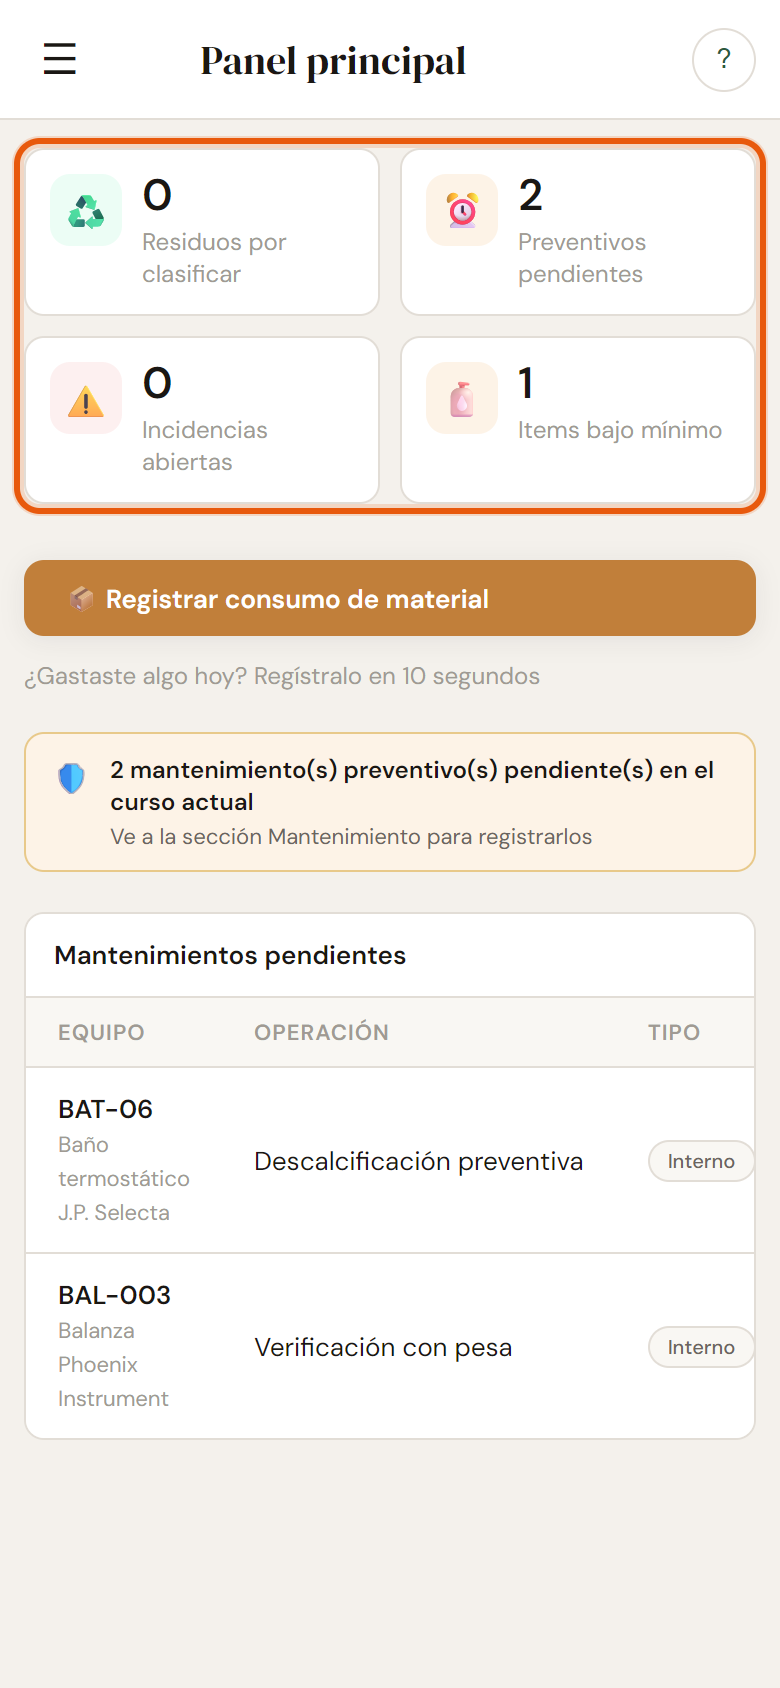
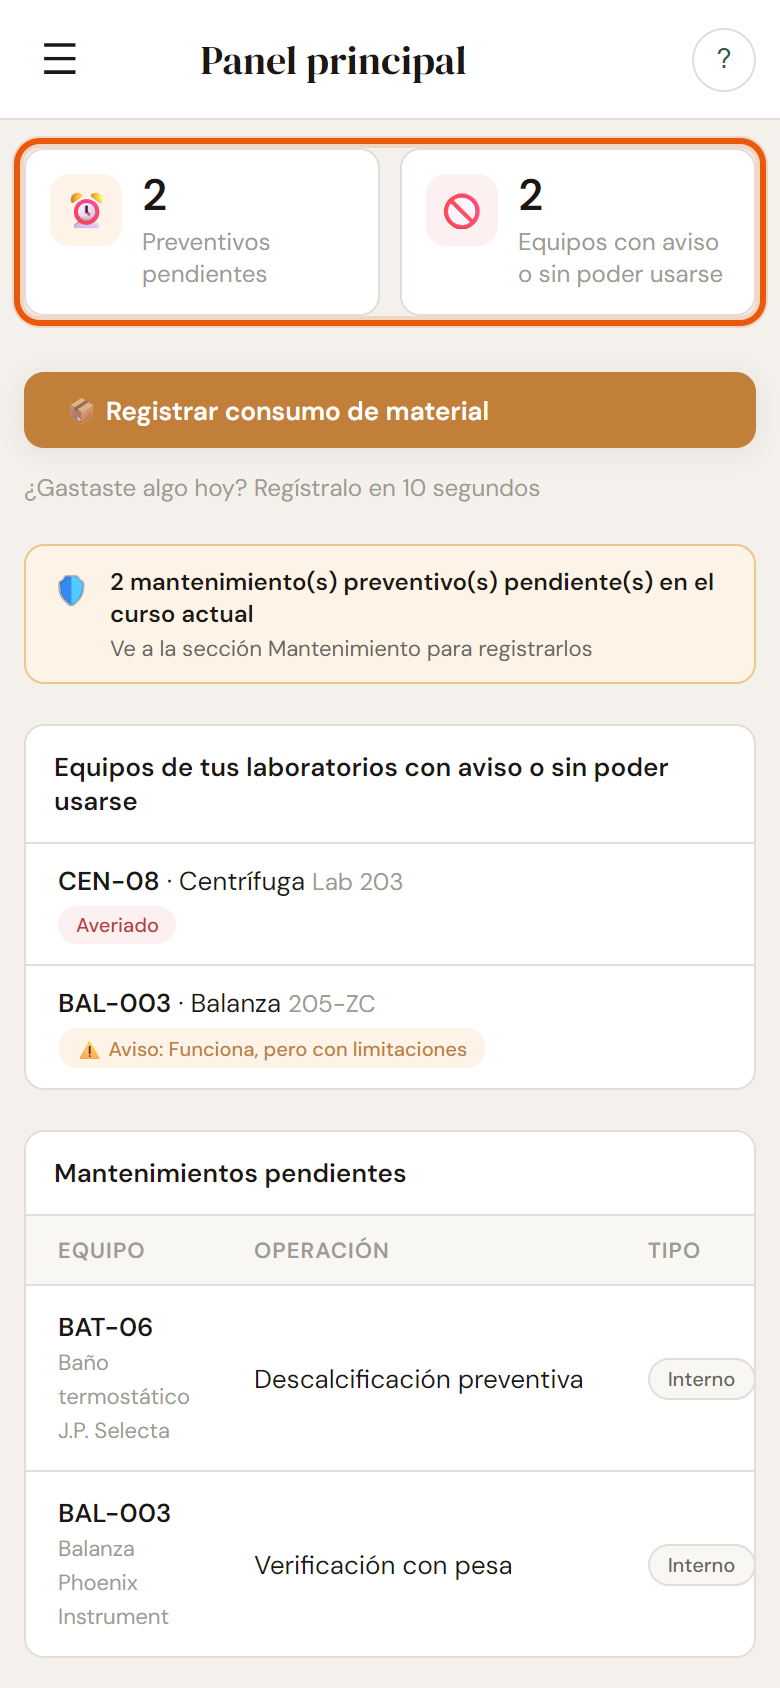
Ayuda: EMP-2 «La app te pide volver a entrar (sesión caducada)» y guiones actualizados
- EMP-2 (común, en los cuatro manuales, «Si algo falla»): pasos y 2 capturas de la
  sesión caducada tal como funciona ahora (entrada con aviso, la ventana reaparece).
- Título nuevo de EMP-2 en los enlaces de MAN-2 y EMP-1; punto de la sesión caducada de MAN-2.
- EMP-1: paso 3 con el panel nuevo del grupo y textos del guion actualizado; capturas rehechas.
- EMP-6: punto de la cabina del guion actualizado; capturas rehechas con los datos nuevos.

diff --git a/js/ayuda.js b/js/ayuda.js
@@ -24,12 +24,13 @@ const AYUDA_MANUALES = {
     secciones: [
       { titulo: 'Al llegar', tareas: ['EMP-1', 'EMP-6'] },
       { titulo: 'Cuando toca mantenimiento', tareas: ['MAN-2'] },
+      { titulo: 'Si algo falla', tareas: ['EMP-2'] },
     ],
   },
-  // EMP-6 es común a todos los roles (misma versión en todos los manuales).
-  Profesor: { titulo: 'Manual del profesorado', intro: '', secciones: [{ titulo: 'Al llegar', tareas: ['EMP-6'] }] },
-  Gestor: { titulo: 'Manual de gestión', intro: '', secciones: [{ titulo: 'Al llegar', tareas: ['EMP-6'] }] },
-  Administrador: { titulo: 'Manual de administración', intro: '', secciones: [{ titulo: 'Al llegar', tareas: ['EMP-6'] }] },
+  // EMP-6 y EMP-2 son comunes a todos los roles (misma versión en todos los manuales).
+  Profesor: { titulo: 'Manual del profesorado', intro: '', secciones: [{ titulo: 'Al llegar', tareas: ['EMP-6'] }, { titulo: 'Si algo falla', tareas: ['EMP-2'] }] },
+  Gestor: { titulo: 'Manual de gestión', intro: '', secciones: [{ titulo: 'Al llegar', tareas: ['EMP-6'] }, { titulo: 'Si algo falla', tareas: ['EMP-2'] }] },
+  Administrador: { titulo: 'Manual de administración', intro: '', secciones: [{ titulo: 'Al llegar', tareas: ['EMP-6'] }, { titulo: 'Si algo falla', tareas: ['EMP-2'] }] },
 };
 
 const AYUDA_ORDEN_MANUALES = ['Alumno', 'Profesor', 'Gestor', 'Administrador'];
@@ -133,13 +134,13 @@ const AYUDA_TAREAS = {
           ['Estaba empezado', '«Continuar n/m» y seguir desde donde se dejó.'],
           ['Se ha marcado un paso por error', 'desmarcarlo antes de finalizar. Si ya está finalizado, decírselo al profesorado, que puede devolverlo para corregirlo.'],
           ['Un paso no se puede hacer (falta material, el equipo no tiene esa pieza)', 'no marcarlo, explicarlo en Observaciones y avisar al profesorado. Si falta material, guardar el progreso y terminar otro día.'],
-          ['Al guardar sale «Tu sesión ha caducado»', 'volver a entrar ([[EMP-2|La app no guarda lo que apuntas (sesión caducada)]]) y comprobar qué quedó guardado.'],
+          ['Al guardar sale «Tu sesión ha caducado»', 'volver a entrar con la misma cuenta del grupo. La ventana reaparece con lo marcado: pulsar otra vez el botón (→ [[EMP-2|La app te pide volver a entrar (sesión caducada)]]).'],
           ['En el móvil, «Registrar» queda fuera de la pantalla en «Pendientes»', 'desplazar la tabla hacia la izquierda, o entrar por la tarjeta del equipo.'],
         ],
         relacionado: [
           ['Antes', [['EQU-1', 'Encontrar un equipo'], ['MAN-1', 'Ver qué mantenimientos tocan'], ['EQU-2', 'Consultar cómo se usa un equipo']]],
           ['Después', [['INC-1', 'Avisar de una avería']]],
-          ['Si falla la app', [['EMP-2', 'La app no guarda lo que apuntas (sesión caducada)']]],
+          ['Si falla la app', [['EMP-2', 'La app te pide volver a entrar (sesión caducada)']]],
         ],
       },
     },
@@ -176,9 +177,9 @@ const AYUDA_TAREAS = {
             alt: 'Pantalla de entrada con el email y la contraseña escritos y el botón Iniciar sesión señalado',
           },
           {
-            texto: '**Qué se ve al entrar.** Arriba del «Panel principal», cuatro cifras: «Preventivos pendientes» son los mantenimientos que tu grupo puede hacer ahora (los de los equipos de vuestros laboratorios y de la zona común); «Incidencias abiertas», «Items bajo mínimo» y «Residuos por clasificar» son de todo el centro. Debajo salen los avisos, por ejemplo los mantenimientos que tocan, y el botón «Registrar consumo de material».',
+            texto: '**Qué se ve al entrar.** El «Panel principal» del grupo enseña lo que le atañe: sus mantenimientos pendientes y los equipos de sus laboratorios y de la zona común que no se pueden usar o tienen un aviso de avería abierto. Arriba, dos cifras: «Preventivos pendientes» (los mantenimientos que tu grupo puede hacer ahora) y «Equipos con aviso o sin poder usarse». Debajo, el botón «Registrar consumo de material», la lista de esos equipos (al pulsar uno se abre su tarjeta en el Inventario) y la de mantenimientos pendientes.',
             img: 'EMP-1/02-panel-principal.png',
-            alt: 'Panel principal de una cuenta de grupo con las cuatro cifras señaladas y la lista de mantenimientos pendientes',
+            alt: 'Panel principal de una cuenta de grupo con sus dos cifras señaladas, la lista de equipos con aviso o sin poder usarse y la de mantenimientos pendientes',
           },
           {
             texto: '**Las secciones del grupo están en el menú** (en el móvil, se abre con «☰», arriba a la izquierda): «Panel principal»; «Equipos» (Inventario y Mantenimiento); «Material fungible» (Inventario); «Uso del laboratorio» (Reservas, Registros de uso y Muestras congeladas); «Residuos» (Guía de residuos y Contenedores); «Catálogo» (Ubicaciones); y «Mi cuenta» («Mi perfil» y «Ayuda»).',
@@ -187,7 +188,7 @@ const AYUDA_TAREAS = {
           },
           {
             texto: '**Comprobar con qué cuenta se ha entrado** antes de registrar nada: al pie del menú salen el nombre del grupo y «Alumno» (también en «Mi cuenta › Mi perfil»). En un ordenador compartido puede seguir abierta la sesión del grupo anterior, y todo lo que se registre saldría a su nombre.',
-            nota: 'En el móvil, el pie del menú queda debajo de «Ayuda»: hay que bajar dentro del menú para verlo.',
+            nota: 'En el móvil, el pie del menú queda debajo de «Ayuda»: hay que bajar hasta el final del menú.',
             imgs: [
               { img: 'EMP-1/04-pie-del-menu.png', alt: 'Pie del menú con el nombre del grupo, el rol Alumno y el botón de cerrar sesión', pie: 'Pie del menú: nombre del grupo, «Alumno» y «↩» para cerrar la sesión.' },
               { img: 'EMP-1/05-mi-perfil.png', alt: 'Mi perfil con el nombre del grupo, su email y el rol Alumno', pie: '«Mi perfil»: los datos de la cuenta con la que se ha entrado.' },
@@ -210,14 +211,14 @@ const AYUDA_TAREAS = {
               '**Residuos**: [[RES-1|consultar la Guía de residuos]] y [[RES-2|apuntar lo que se echa en cada contenedor]].',
               '**Mantenimiento**: [[MAN-2|hacer los mantenimientos internos]] que no están reservados al profesorado, de los equipos de vuestros laboratorios y de la zona común.',
               '**Averías**: [[INC-1|avisar de que un equipo falla]].',
-              '**Inventario**, cuando lo pide el profesorado: [[INV-1|ubicar equipos]], [[INV-2|contar el stock de un sitio]] (si el grupo tiene permiso, y solo en vuestros laboratorios y la zona común) e [[INV-3|inventariar material que no está en la app]].',
+              '**Inventario**, cuando lo pide el profesorado: [[INV-1|ubicar equipos]], [[INV-2|contar el stock de un sitio]] de vuestros laboratorios o de la zona común (si el grupo tiene permiso) e [[INV-3|inventariar material que no está en la app]].',
             ],
           },
           {
             titulo: 'Qué necesita el visto bueno del profesorado',
             items: [
               'Los mantenimientos que finaliza el grupo.',
-              'En el inventario: las ubicaciones de equipos que propone el grupo (salvo que otro grupo haya propuesto exactamente lo mismo para ese equipo: entonces se aplica sin esperar), los recuentos de stock y el material nuevo inventariado.',
+              'En el inventario: las ubicaciones de equipos que propone el grupo (salvo que otro grupo haya propuesto exactamente la misma: entonces se aplica sin esperar), los recuentos de stock y el material nuevo inventariado.',
               'Las reservas, solo si coinciden con otra: entonces las decide Gestión.',
             ],
             nota: 'Hasta que llega el visto bueno, lo registrado no cuenta como hecho, pero tampoco hay que repetirlo.',
@@ -226,7 +227,7 @@ const AYUDA_TAREAS = {
             titulo: 'Lo que no hace el grupo (y a quién pedirlo)',
             items: [
               'Guardar muestras nuevas en el congelador, descartar tubos o cajas, cerrar un contenedor lleno, pedir material o compras: al profesorado.',
-              'Apuntar en un contenedor un residuo que la comprobación de la app no admite, o cuando la app no puede comprobarlo: no se apunta; llamar al profesorado.',
+              'Apuntar en un contenedor un residuo que la app no admite. Si la app dice que no va ahí, no se tira: preguntar al profesorado.',
               'Si se ha olvidado o ha cambiado la contraseña del grupo: la da el profesorado. No hay botón «He olvidado la contraseña».',
             ],
           },
@@ -246,12 +247,12 @@ const AYUDA_TAREAS = {
           ['«Email o contraseña incorrectos»', 'revisar mayúsculas y espacios. Si sigue, pedir la contraseña al profesorado (puede haber cambiado al empezar el curso).'],
           ['«🔒 Acceso no autorizado»', 'la cuenta no está dada de alta en GestionLab. Avisar al profesorado.'],
           ['Al pie del menú sale otro grupo', 'cerrar la sesión y entrar con la vuestra.'],
-          ['La app vuelve sola a la pantalla de entrada, o sale «Tu sesión ha caducado»', 'volver a entrar (→ [[EMP-2|La app no guarda lo que apuntas (sesión caducada)]]).'],
+          ['La app vuelve sola a la pantalla de entrada, o sale «Tu sesión ha caducado»', 'volver a entrar con la misma cuenta (→ [[EMP-2|La app te pide volver a entrar (sesión caducada)]]).'],
           ['No aparece una sección que esperabais', 'el grupo no la tiene; mirar «Qué puede hacer tu grupo» y «Lo que no hace el grupo».'],
         ],
         relacionado: [
           ['Después', [['EMP-6', 'Usar GestionLab en el móvil'], ['EQU-1', 'Encontrar un equipo']]],
-          ['Si falla la app', [['EMP-2', 'La app no guarda lo que apuntas (sesión caducada)']]],
+          ['Si falla la app', [['EMP-2', 'La app te pide volver a entrar (sesión caducada)']]],
         ],
       },
     },
@@ -262,7 +263,59 @@ const AYUDA_TAREAS = {
     pantallas: ['registros-uso', 'congelados', 'material', 'residuos-contenedores', 'perfil'],
     versiones: {},   // la misma versión en los cuatro manuales: se rellena justo debajo
   },
+
+  // ── EMP-2 · común a todos los roles (guion «EMP-2_sesion-caducada.md», 23/11/2026) ──
+  'EMP-2': {
+    pantallas: ['dashboard', 'perfil'],
+    versiones: {},   // la misma versión en los cuatro manuales: se rellena justo debajo
+  },
 };
+
+(() => {
+  const emp2 = {
+    titulo: 'La app te pide volver a entrar (sesión caducada)',
+    quien: ['Cualquier cuenta.'],
+    cuando: [
+      'Al abrir la app sale la pantalla de entrada, aunque en ese dispositivo ya se había entrado.',
+      'Al pulsar «Guardar» (o «Finalizar», «Registrar»…) sale «Tu sesión ha caducado. Vuelve a entrar para guardar cambios.» y se abre la pantalla de entrada.',
+      'La app vuelve sola a la pantalla de entrada mientras estaba abierta.',
+      'En los tres casos, la sesión de ese dispositivo ha dejado de valer. Sin sesión, la app no enseña datos ni guarda nada.',
+    ],
+    antes: [
+      'El email y la contraseña de la cuenta con la que se estaba trabajando. Con la cuenta de un grupo, los del grupo.',
+    ],
+    pasos: [
+      {
+        texto: '**No cerrar la app ni recargar la página.** Lo que estaba a medio rellenar solo está en esa pantalla: si se cierra o se recarga, se pierde.',
+      },
+      {
+        texto: '**Entrar con la misma cuenta** con la que se estaba trabajando: email, contraseña e «Iniciar sesión». Si había una ventana a medio rellenar, la pantalla de entrada lo recuerda: «Vuelve a entrar con la misma cuenta: lo que estabas rellenando sigue ahí y podrás guardarlo». Si no, pone solo «Tu sesión ha caducado. Vuelve a entrar.»',
+        img: 'EMP-2/01-entrada-sesion-caducada.png',
+        alt: 'Pantalla de entrada con el aviso de sesión caducada señalado y el mensaje Tu sesión ha caducado abajo',
+      },
+      {
+        texto: '**Revisar que está todo y pulsar otra vez el botón** («Guardar», «Finalizar», «Registrar»…). Reaparece la ventana con todo lo rellenado y el aviso «Ya has vuelto a entrar: pulsa otra vez el botón para guardar». Hasta ese momento, no se ha guardado nada.',
+        nota: 'En el móvil, ese aviso tapa unos segundos los botones de abajo de la ventana: esperar a que desaparezca.',
+        img: 'EMP-2/02-ventana-reaparece.png',
+        alt: 'La ventana del mantenimiento vuelve a aparecer con las observaciones escritas y el aviso Ya has vuelto a entrar',
+      },
+      {
+        texto: '**Si se entra con otra cuenta, lo rellenado se pierde**: la app lo avisa («Has entrado con otra cuenta: lo que estaba sin guardar se ha descartado»). En un dispositivo del laboratorio, entrar con la cuenta del grupo que estaba trabajando, no con otra.',
+      },
+    ],
+    comprobacion: [
+      'Tras pulsar otra vez el botón, sale el mensaje de confirmación de siempre y lo registrado aparece donde tiene que estar. Por ejemplo, un mantenimiento finalizado por un grupo sale «⏳ Espera visto bueno» en la tarjeta del equipo.',
+    ],
+    problemas: [
+      ['No se sabe la contraseña', 'la del grupo la da el profesorado; la personal, la restablece Gestión.'],
+      ['Lo rellenado no reaparece', 'volver a rellenarlo. En registros largos, como un mantenimiento, conviene «💾 Guardar progreso» de vez en cuando: así, si la sesión cae, se pierde poco.'],
+    ],
+    relacionado: [
+      ['Antes', [['EMP-1', 'Entrar en GestionLab']]],
+    ],
+  };
+  AYUDA_ORDEN_MANUALES.forEach(r => { AYUDA_TAREAS['EMP-2'].versiones[r] = emp2; });
+})();
 
 (() => {
   const emp6 = {
@@ -325,7 +378,7 @@ const AYUDA_TAREAS = {
     problemas: [
       ['Al acercar el móvil no pasa nada', 'el NFC está desactivado, el móvil no tiene NFC o la antena está en otra zona del móvil (probar moviéndolo despacio por la parte de atrás). Si no hay manera, leer el QR con la cámara.'],
       ['Se abre la pantalla de entrada', 'no había sesión. Entrar; la app hace después lo que pedía la etiqueta.'],
-      ['Cabina o vitrina con la cuenta del grupo', 'la app distingue por cuenta, no por persona. Si otra persona del grupo lee la etiqueta mientras el grupo tiene una sesión abierta en ese equipo, se abre el formulario para **terminar** esa sesión (si no se quería, «Cancelar»). Que en cada grupo empiece y termine la sesión la misma persona. Si se ha empezado por error, «Deshacer» durante unos segundos.'],
+      ['Cabina o vitrina con la cuenta del grupo', 'la app distingue por cuenta, no por persona. Si otra persona del grupo lee la etiqueta mientras el grupo tiene una sesión abierta en ese equipo, se abre el formulario para terminarla. Si no era para terminar, «Cancelar». Que en cada grupo empiece y termine la sesión la misma persona, que es quien sabe lo que se ha hecho en la cabina. Si se ha empezado por error, «Deshacer» durante unos segundos.'],
       ['«No se encontró un contenedor activo…»', 'el contenedor de esa categoría se ha cerrado y no se ha puesto el de recambio. Avisar al profesorado.'],
       ['En el laboratorio 203, la etiqueta de aguas pide elegir la garrafa', 'hay dos (tinciones y equipos); elegir a mano la que corresponde y avisar al profesorado de que esa etiqueta hay que regrabarla.'],
       ['«Esa caja ya no existe en la app»', 'avisar al profesorado.'],

diff --git a/tools/capturas-ayuda/EMP-2.js b/tools/capturas-ayuda/EMP-2.js
@@ -1,0 +1,47 @@
+// Capturas de EMP-2 «La app te pide volver a entrar (sesión caducada)» (común a todos los roles).
+// `node tools/capturas-ayuda/capturar.js EMP-2` — ver README.md.
+// La app se abre sin sesión con datos de ejemplo: al pulsar «Guardar progreso» se ve de verdad
+// lo que pasa cuando la sesión ha caducado. La vuelta a entrar se simula con showApp(), que es
+// lo último que hace la app tras un inicio de sesión correcto.
+async (page, { app: APP, salida: SALIDA }) => {
+  const fs = require('fs'), path = require('path');
+  const pausa = ms => page.waitForTimeout(ms);
+  await eval(fs.readFileSync(path.join(__dirname, '_demo-alumno.js'), 'utf8'))(page, APP);
+
+  // Un mantenimiento a medio rellenar
+  await page.evaluate(() => {
+    const p = getPeriodosEsperados(DATA.planesMantenimiento[0], DATA.equipos.find(e => e.ID_Activo === 'BAT-06'), getCursoAcademico())[0];
+    openModalRegistrarMant('PEJ1', 'BAT-06', p, getCursoAcademico());
+    const cb = document.querySelector('#mant-checklist [data-idx="1"] input'); if (cb) { cb.checked = true; _mantPasoHecho(1, true); }
+    document.getElementById('mant-observaciones').value = 'Termómetro de referencia: TER-02. Agua de red.';
+  });
+  // 1 · Se pulsa «💾 Guardar progreso» con la sesión caducada → pantalla de entrada con el aviso
+  await page.evaluate(() => guardarProgresoMant());
+  await pausa(700);
+  await page.evaluate(() => {
+    document.getElementById('auth-aviso-sesion')?.classList.add('ayuda-senal');
+    document.getElementById('login-email').value = 'ejemplo@gestionlab.cma';
+    document.getElementById('login-password').value = 'contraseña';
+  });
+  await pausa(200);
+  await page.screenshot({ path: SALIDA + '01-entrada-sesion-caducada.png' });
+
+  // 2 · Vuelta a entrar con la misma cuenta → reaparece la ventana con lo rellenado
+  await page.evaluate(() => {
+    document.querySelectorAll('.toast, #toast').forEach(t => { t.style.display = 'none'; });
+    document.querySelectorAll('.ayuda-senal').forEach(e => e.classList.remove('ayuda-senal'));
+    showApp();
+  });
+  await pausa(400);
+  await page.evaluate(() => {
+    const t = [...document.querySelectorAll('.toast, #toast')].filter(x => /Ya has vuelto/.test(x.textContent));
+    t.forEach(x => { x.style.display = ''; });
+    // El aviso queda abajo, sobre los botones, unos segundos: se señala lo que se conserva.
+    const obs = document.getElementById('mant-observaciones');
+    obs?.classList.add('ayuda-senal');
+    obs?.scrollIntoView({ block: 'center' });
+  });
+  await pausa(300);
+  await page.screenshot({ path: SALIDA + '02-ventana-reaparece.png' });
+  return 'ok';
+}

diff --git a/tools/capturas-ayuda/_demo-alumno.js b/tools/capturas-ayuda/_demo-alumno.js
@@ -18,13 +18,20 @@ async (page, APP) => {
       eq('BAT-06', 'Baño termostático', 'J.P. Selecta', 'Precisterm', 'Lab 205'),
       eq('BAL-003', 'Balanza', 'Phoenix Instrument', 'BTC-223', '205-ZC'),
       eq('CON-01', 'Congelador -80 °C', 'Ejemplo', '', 'Lab 205'),
+      eq('CEN-08', 'Centrífuga', 'Ortoalresa', 'Digicen 21', 'Lab 203'),
+      eq('MIC-21', 'Microscopio', 'Olympus', 'CX22LED', 'Lab 207'),   // de otro laboratorio: el grupo no lo ve en su panel
     ];
+    DATA.equipos.find(e => e.ID_Activo === 'CEN-08').Estado_Operativo = 'Averiado';
+    DATA.equipos.find(e => e.ID_Activo === 'MIC-21').Estado_Operativo = 'Averiado';
+    DATA.incidencias = [_incidenciaSbToObj({ id_incidencia: 'INC-EJ1', id_equipo: 'BAL-003', reportado_por: '1º CS EJEMPLO',
+      descripcion_problema: 'La pesa de 100 g marca 100,6 g; criterio ± 0,2 g.', impacto: 'Uso limitado', urgencia: 'Normal', estado: 'Abierta', fecha_hora: new Date().toISOString() })];
     const curso = getCursoAcademico();
     const [a1, a2] = curso.split('-');
     DATA.evaluacionesCurso = [[1, `${a1}-09-01`, `${a1}-12-04`], [2, `${a1}-12-05`, `${a2}-03-05`], [3, `${a2}-03-06`, `${a2}-06-04`]]
       .map(([numero, fecha_inicio, fecha_fin]) => _evaluacionCursoSbToObj({ curso_academico: curso, numero, fecha_inicio, fecha_fin }));
     DATA.planesMantenimiento = [
-      _planMantenimientoSbToObj({ id_plan: 'PEJ1', id_equipo: 'BAT-06', tipo_intervencion: 'Interno', periodicidad: 'Trimestral', operacion: 'Descalcificación preventiva', activo: true, solo_profesorado: false, instrucciones: 'Paso' }),
+      _planMantenimientoSbToObj({ id_plan: 'PEJ1', id_equipo: 'BAT-06', tipo_intervencion: 'Interno', periodicidad: 'Trimestral', operacion: 'Descalcificación preventiva', activo: true, solo_profesorado: false,
+        instrucciones: 'Prueba rápida (6.1): display frente a termómetro de referencia, homogeneidad, nivel, cal, cable (criterio: Δ ≤ 1 °C (≤ 0,5 °C en 37 °C); cubeta sin cal)\nDescalcificación preventiva de cubeta y calefactor (vinagre o HCl 10 %) si el agua es de red\nReposición del carbonato de sodio al cambiar el agua (criterio: Calefactor sin cal)' }),
       _planMantenimientoSbToObj({ id_plan: 'PEJ2', id_equipo: 'BAL-003', tipo_intervencion: 'Interno', periodicidad: 'Trimestral', operacion: 'Verificación con pesa', activo: true, solo_profesorado: false, instrucciones: 'Paso' }),
     ];
     // Ubicaciones, material y residuos de ejemplo
